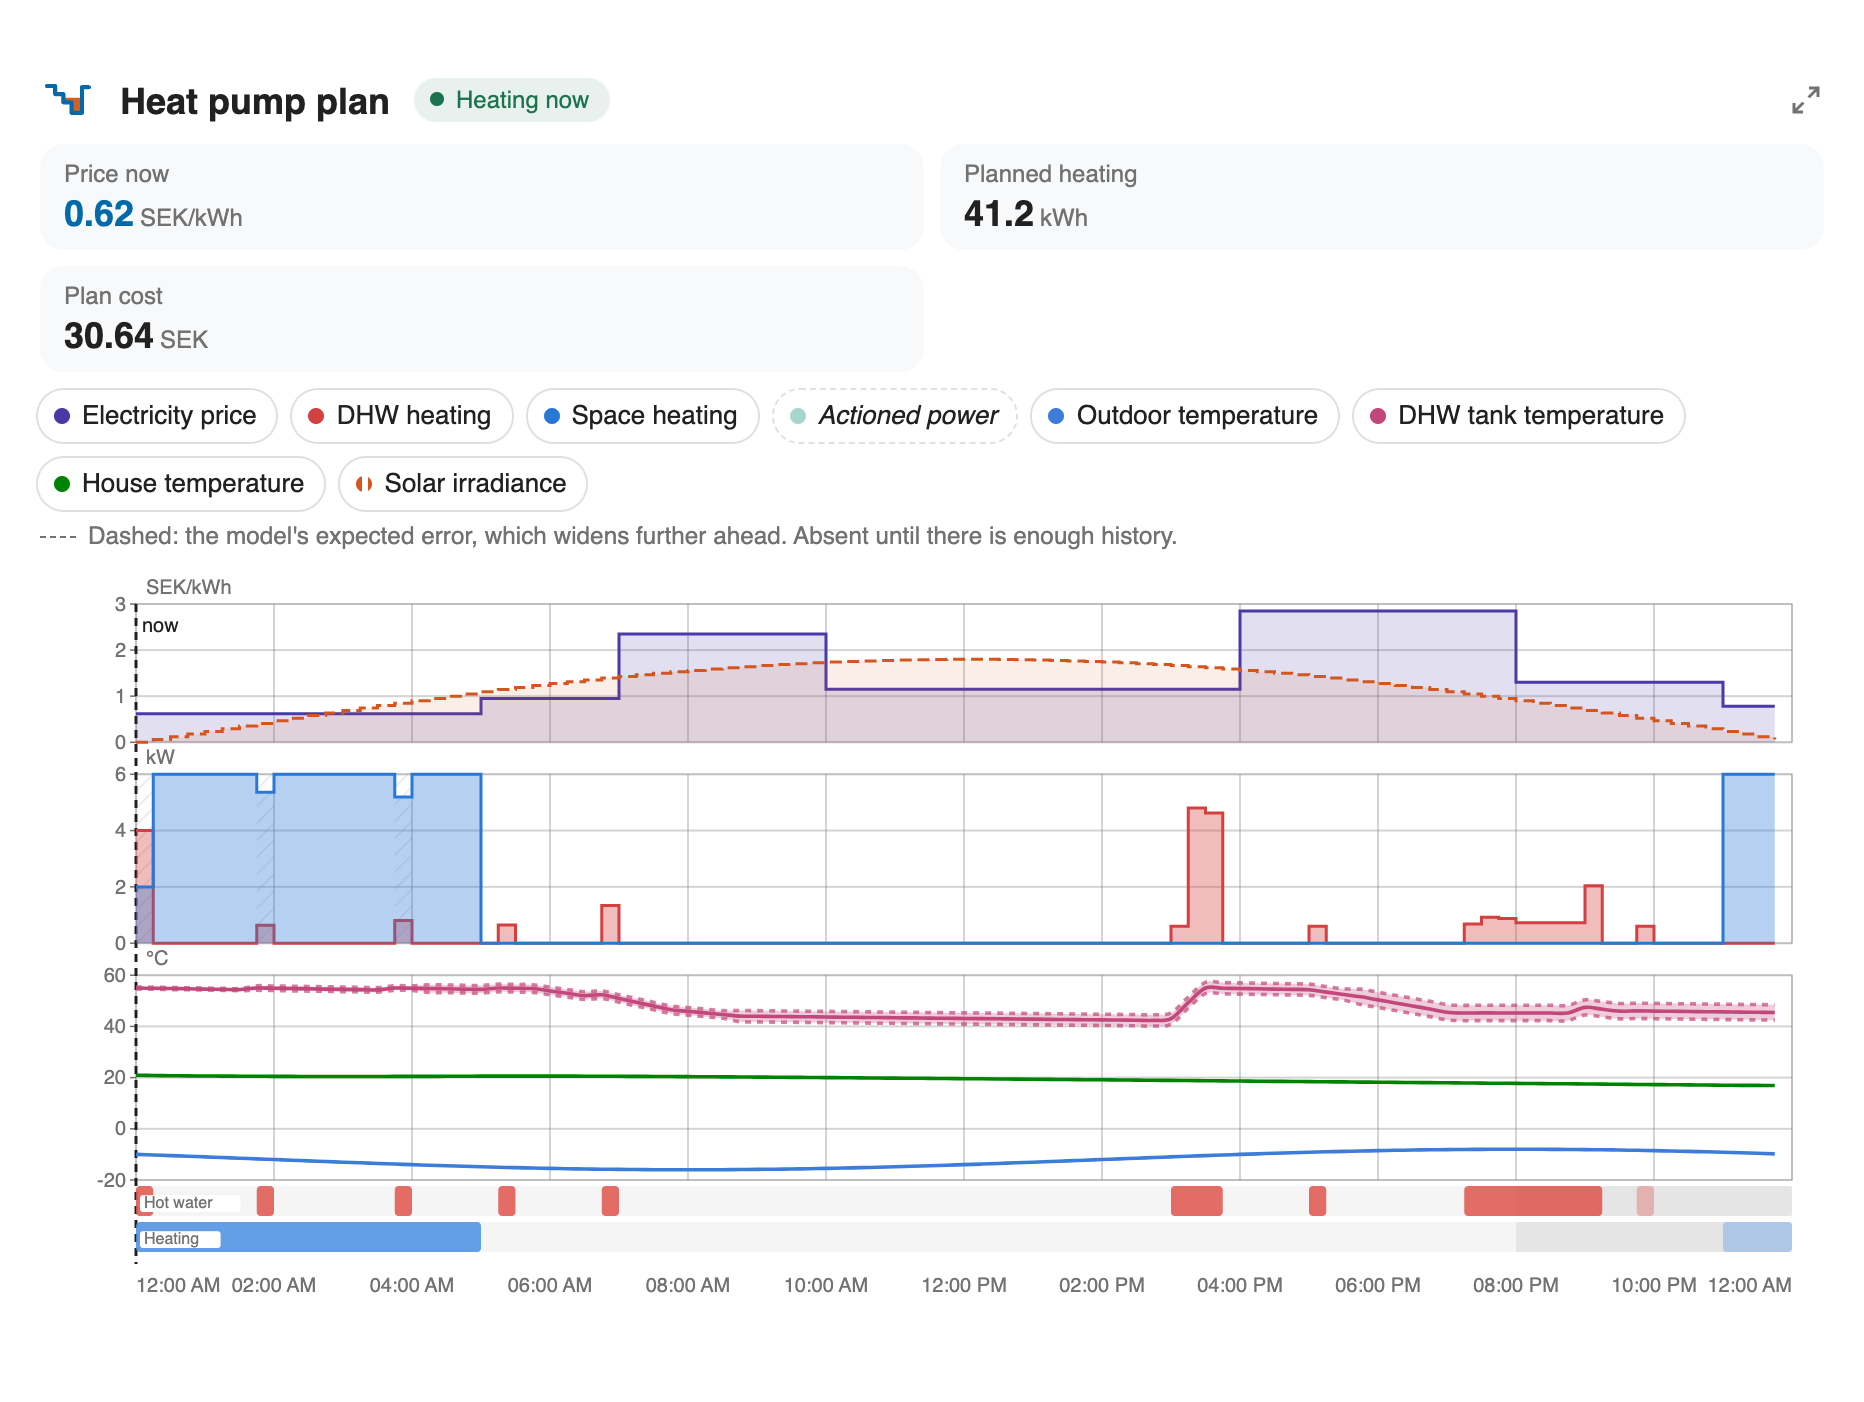
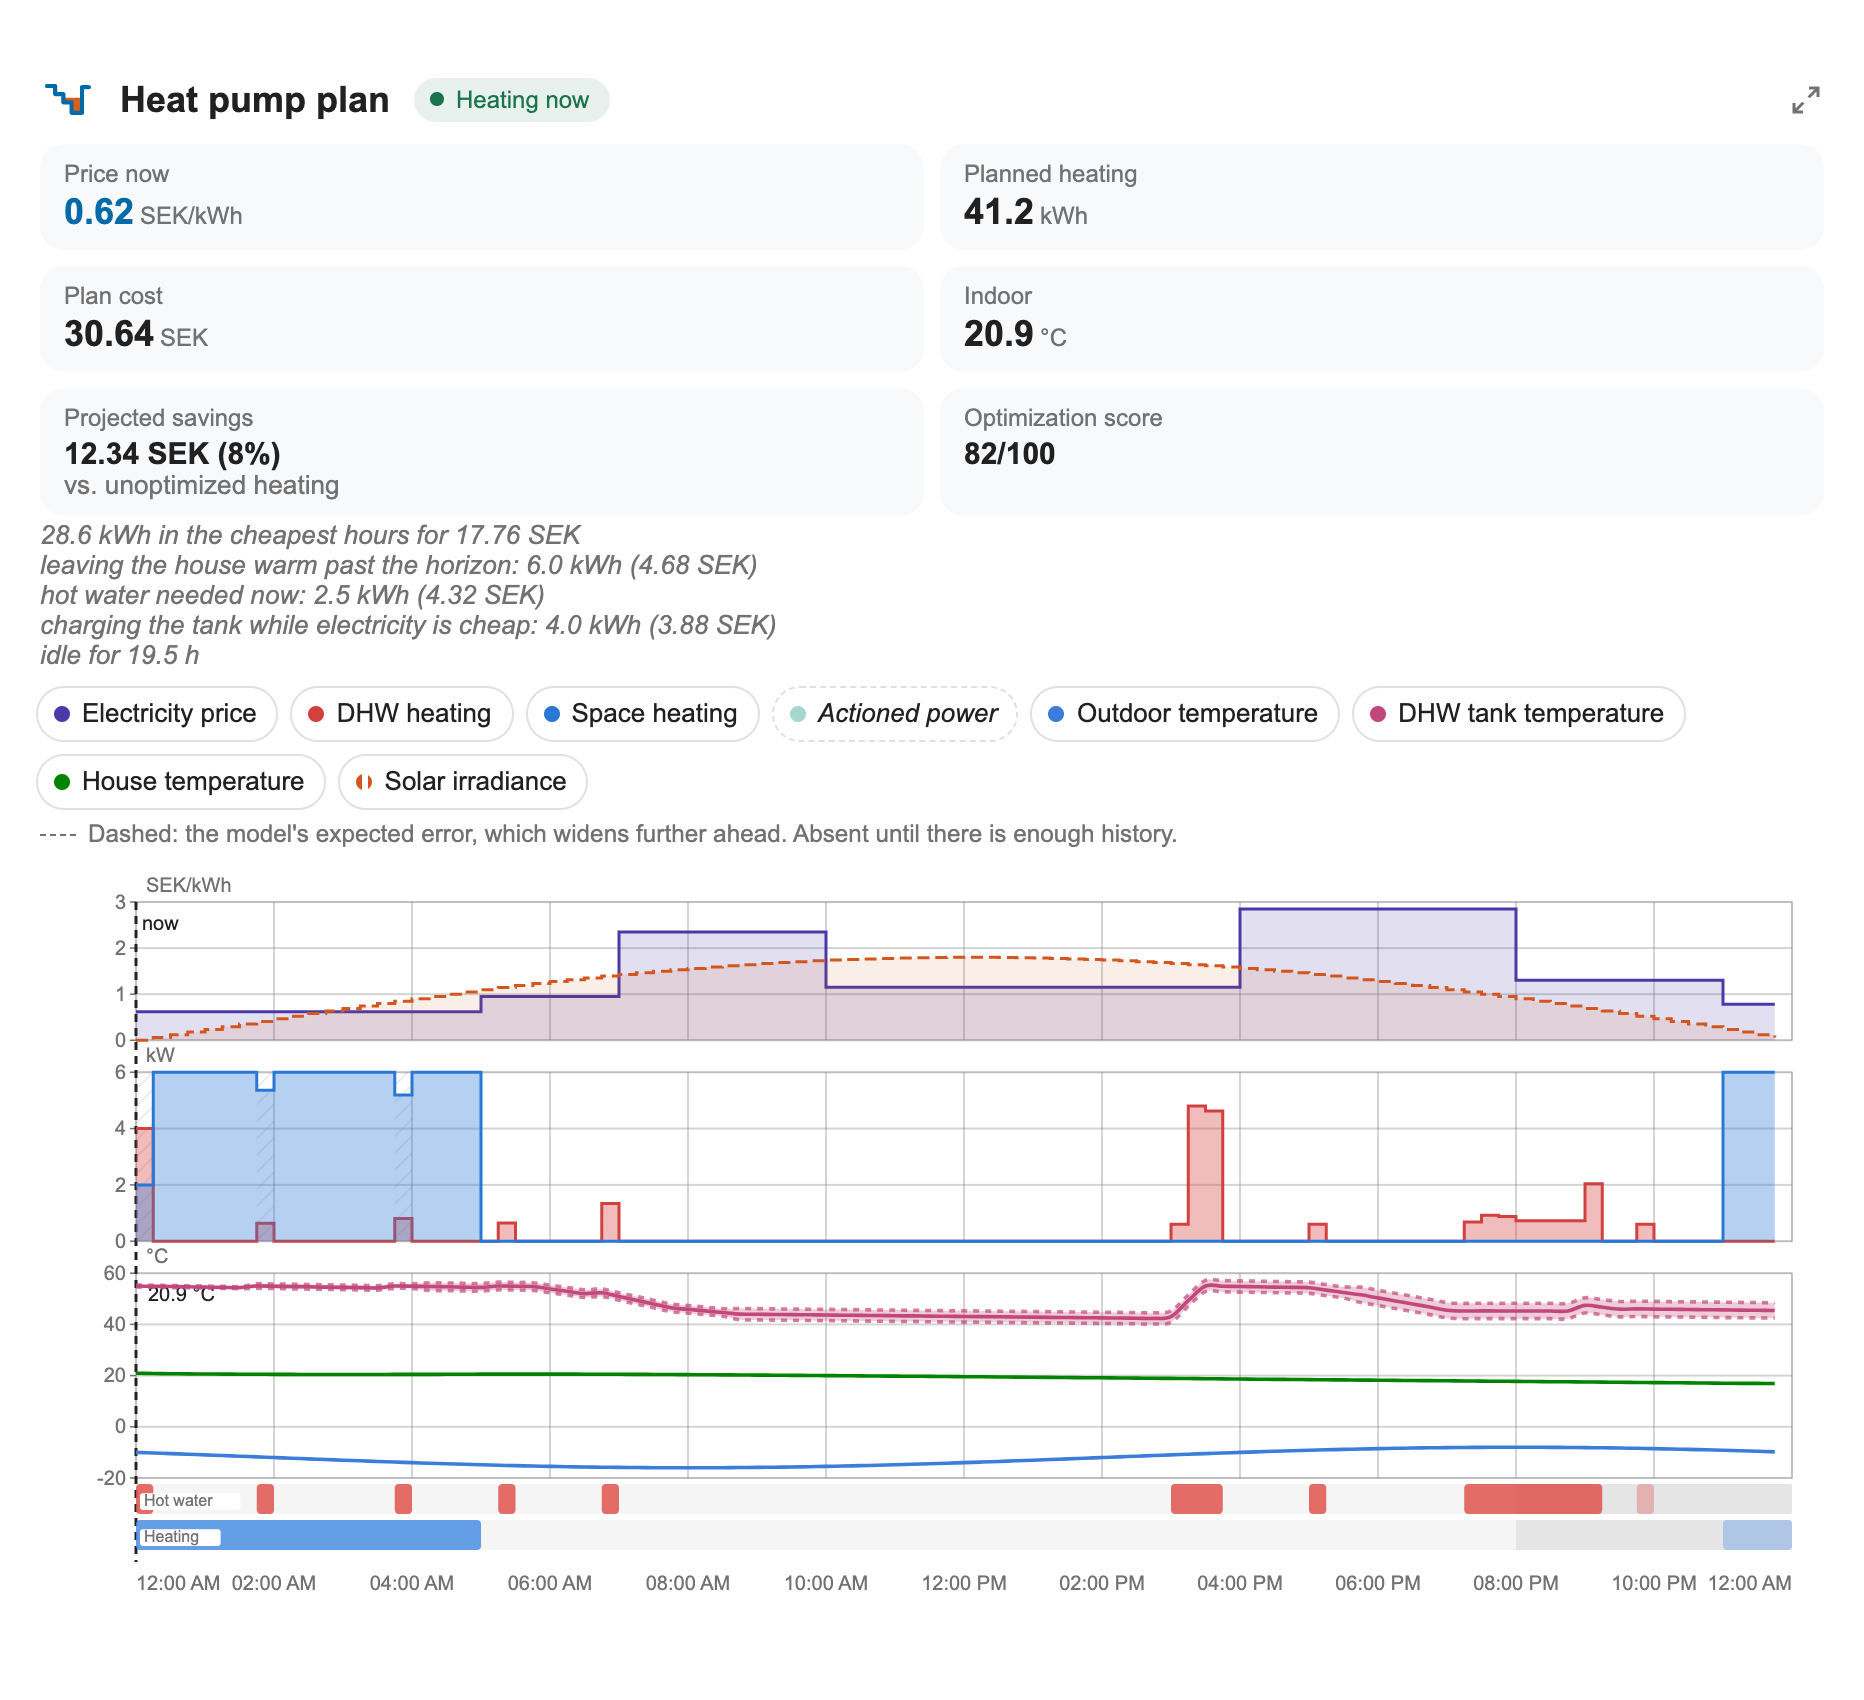
docs: delete the orphaned old card picture, hero with every tile populated, weekly figure measured against its caption
docs/img/card-advisor-page.png is deleted and its tests/layout.json entry
becomes a deletion (new: null), live as a refusal; the README hero is rendered
from the page fixture (savings, score, indoor, headline lines) so no tile is
empty or orphaned; the weekly figure's Saturday evening is made to clamp, and
HPO_WEEKLY_MEASURE prints the plotted-against-published floors the caption
states.

diff --git a/docs/index.html b/docs/index.html
@@ -216,7 +216,7 @@ footer .brand { font-size: 1rem }
     <a class="btn ghost" href="#docs">Read the documentation</a>
   </div>
   <figure>
-    <div class="stage chart"><img src="img/card-plan-chart.png" data-repo="docs/img/card-plan-chart.png" width="1864" height="1402" alt="The dashboard card's plan chart: 24 hours of spot price, forecast temperature and solar, over the heating and hot-water slots the optimizer chose"></div>
+    <div class="stage chart"><img src="img/card-plan-chart.png" data-repo="docs/img/card-plan-chart.png" width="1864" height="1700" alt="The dashboard card's plan chart: 24 hours of spot price, forecast temperature and solar, over the heating and hot-water slots the optimizer chose"></div>
     <figcaption data-src="README.md#heat-pump-cost-optimizer-for-home-assistant">The next 24 hours as the optimizer sees them — price, forecast, solar, and the slots it picked for heating and for hot water.</figcaption>
   </figure>
   <div class="tiles" aria-label="At a glance">
